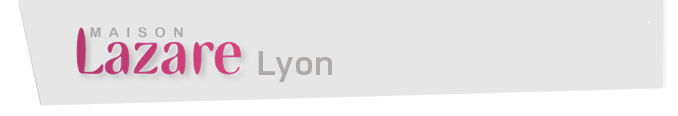
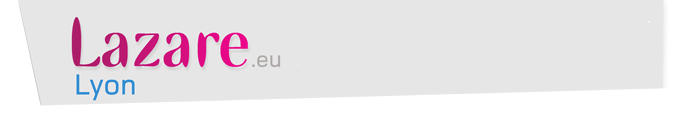
Change headers img

Changed region(s): [[0.0929, 0.1552, 0.4956, 0.8534]]

diff --git a/wp-content/themes/lazare/header.php b/wp-content/themes/lazare/header.php
@@ -92,15 +92,21 @@
 			
 			<a href="<?php echo esc_url( home_url( '/' ) ); ?>">
 				<?php if( get_the_ID() == 14 ):?>
-					<img src="<?php echo get_theme_root_uri(); ?>/lazare/images/header-lyon.png" alt="Lazare" id="bandeau-lazare" />
+					<img src="<?php echo get_theme_root_uri(); ?>/lazare/images/header-lyon.png" alt="Lazare Lyon" id="bandeau-lazare" />
 				<?php elseif( get_the_ID() == 19 ):?>
-					<img src="<?php echo get_theme_root_uri(); ?>/lazare/images/header-toulouse.png" alt="Lazare" id="bandeau-lazare" />
+					<img src="<?php echo get_theme_root_uri(); ?>/lazare/images/header-toulouse.png" alt="Lazare Toulouse" id="bandeau-lazare" />
 				<?php elseif( get_the_ID() == 17 ):?>
-					<img src="<?php echo get_theme_root_uri(); ?>/lazare/images/header-toulon.png" alt="Lazare" id="bandeau-lazare" />
+					<img src="<?php echo get_theme_root_uri(); ?>/lazare/images/header-toulon.png" alt="Lazare Toulon" id="bandeau-lazare" />
 				<?php elseif( get_the_ID() == 21 ):?>
-					<img src="<?php echo get_theme_root_uri(); ?>/lazare/images/header-nantes.png" alt="Lazare" id="bandeau-lazare" />
-				<?php elseif( get_the_ID() == 212 ):?>
-					<img src="<?php echo get_theme_root_uri(); ?>/lazare/images/header-apa.png" alt="Lazare" id="bandeau-lazare" />
+					<img src="<?php echo get_theme_root_uri(); ?>/lazare/images/header-nantes.png" alt="Lazare Nantes" id="bandeau-lazare" />
+                <?php elseif( get_the_ID() == 212 ):?>
+                    <img src="<?php echo get_theme_root_uri(); ?>/lazare/images/header-paris.png" alt="Lazare Paris" id="bandeau-lazare" />
+                <?php elseif( get_the_ID() == 1328 ):?>
+                    <img src="<?php echo get_theme_root_uri(); ?>/lazare/images/header-lille.png" alt="Lazare Lille" id="bandeau-lazare" />
+                <?php elseif( get_the_ID() == 1540 ):?>
+                    <img src="<?php echo get_theme_root_uri(); ?>/lazare/images/header-marseille.png" alt="Lazare Marseille" id="bandeau-lazare" />
+                <?php elseif( get_the_ID() == 180 ):?>
+                    <img src="<?php echo get_theme_root_uri(); ?>/lazare/images/header-apa.png" alt="Lazare" id="bandeau-lazare" />
 				<?php else:?>
 				 	<img src="<?php echo get_theme_root_uri(); ?>/lazare/images/header.png" alt="Lazare" id="bandeau-lazare" />	
 				<?php endif;?>			
